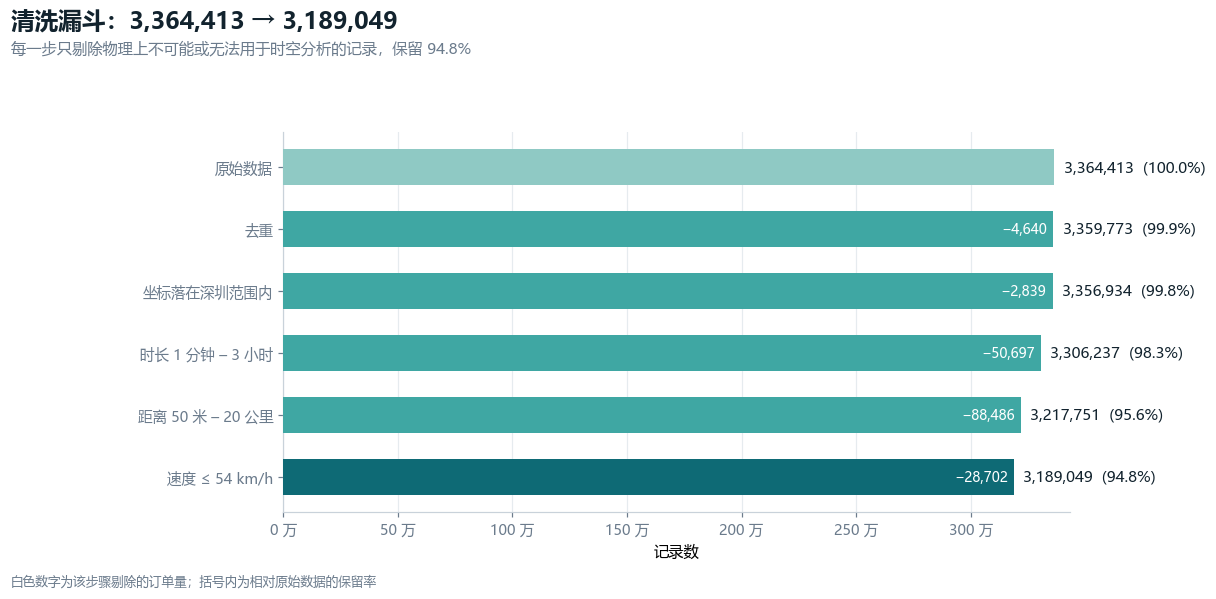
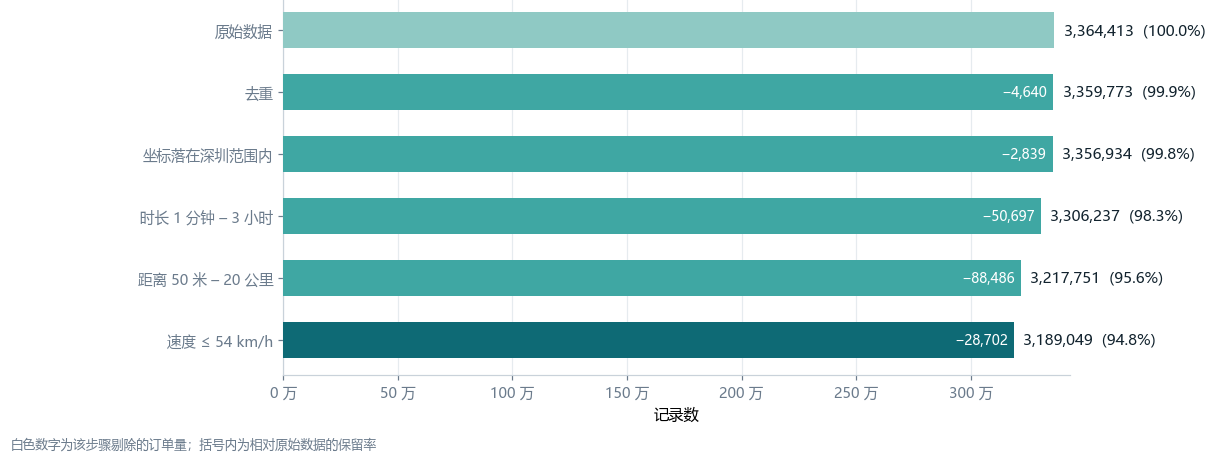
README 细节打磨：图表去重标题、链路图离线渲染
- 裁掉导出图内与章节重复的标题条，正文标题统一由 Markdown 承担
- 分析链路改用离线渲染的 PNG（GitHub 的 Mermaid 由 viewscreen 服务渲染，
  在部分网络环境下会加载失败），Mermaid 源保留在 assets/src/pipeline.mmd
- 头图指标文字增大提亮

diff --git a/assets/src/hero.html b/assets/src/hero.html
@@ -67,9 +67,9 @@
     content: ""; position: absolute; left: 0; top: 8px; bottom: 8px; width: 1px;
     background: linear-gradient(180deg, rgba(255,255,255,0), rgba(255,255,255,0.16), rgba(255,255,255,0));
   }
-  .m .num { font-size: 40px; font-weight: 700; letter-spacing: -0.6px; color: #FFFFFF; font-variant-numeric: tabular-nums; }
+  .m .num { font-size: 41px; font-weight: 700; letter-spacing: -0.6px; color: #FFFFFF; font-variant-numeric: tabular-nums; }
   .m .num small { font-size: 19px; font-weight: 600; color: #9FB8C0; margin-left: 4px; letter-spacing: 0; }
-  .m .lab { margin-top: 10px; font-size: 15px; font-weight: 400; color: #7C9AA3; letter-spacing: 0.6px; }
+  .m .lab { margin-top: 10px; font-size: 16px; font-weight: 400; color: #93AEB6; letter-spacing: 0.5px; }
   .m.t .num { color: #7FD3D0; }
   .m.a .num { color: #F0B65E; }
   .m.o .num { color: #E8836B; }

diff --git a/README.md b/README.md
@@ -132,29 +132,11 @@
 
 <p align="center"><sub>五道清洗规则只剔除物理上不可能或无法用于时空分析的记录，保留 94.8%。</sub></p>
 
-```mermaid
-flowchart TD
-    A["原始订单<br/>3,364,413 条"]:::data --> B["质量审计<br/>完整性 · 唯一性 · 时间一致性<br/>空间有效性 · 运动学合理性"]
-    B --> C["清洗五道规则<br/>去重 · 坐标 · 时长 · 距离 · 速度"]
-    C --> D["特征工程<br/>0.01° 网格 · 片区映射 · 派生量"]
+<p align="center">
+  <img src="assets/figures/00-pipeline.png" alt="分析链路:从原始订单到运营建议" width="64%">
+</p>
 
-    D --> E["时间维度<br/>三日节律 · 降雨扰动"]
-    D --> F["空间维度<br/>网格热力 · 距离时长"]
-
-    F --> G["OD 网络"]
-    G --> H["Louvain 社区发现<br/>14 个社区 · Q = 0.833"]
-    G --> I["KMeans 功能区聚类<br/>4 类时间形态"]
-
-    H --> J["潮汐与供需失衡<br/>净流入 −563 ~ +456 辆/天"]
-    I --> J
-
-    E --> K["需求预测<br/>HistGradientBoosting<br/>MAE 10.3 辆 · R² 0.907"]
-    J --> K
-    K --> L(["运营建议"]):::out
-
-    classDef data fill:#0E6A75,stroke:#0E6A75,color:#ffffff
-    classDef out fill:#D9532B,stroke:#D9532B,color:#ffffff
-```
+<p align="center"><sub>链路图由 Mermaid 渲染后导出（源文件 <code>assets/src/pipeline.mmd</code>），不依赖 GitHub 的在线 Mermaid 服务。</sub></p>
 
 清洗后保留 **3,189,049** 条有效骑行，唯一用户 **1,206,439**，累计里程 **3,908,281 km**。
 
